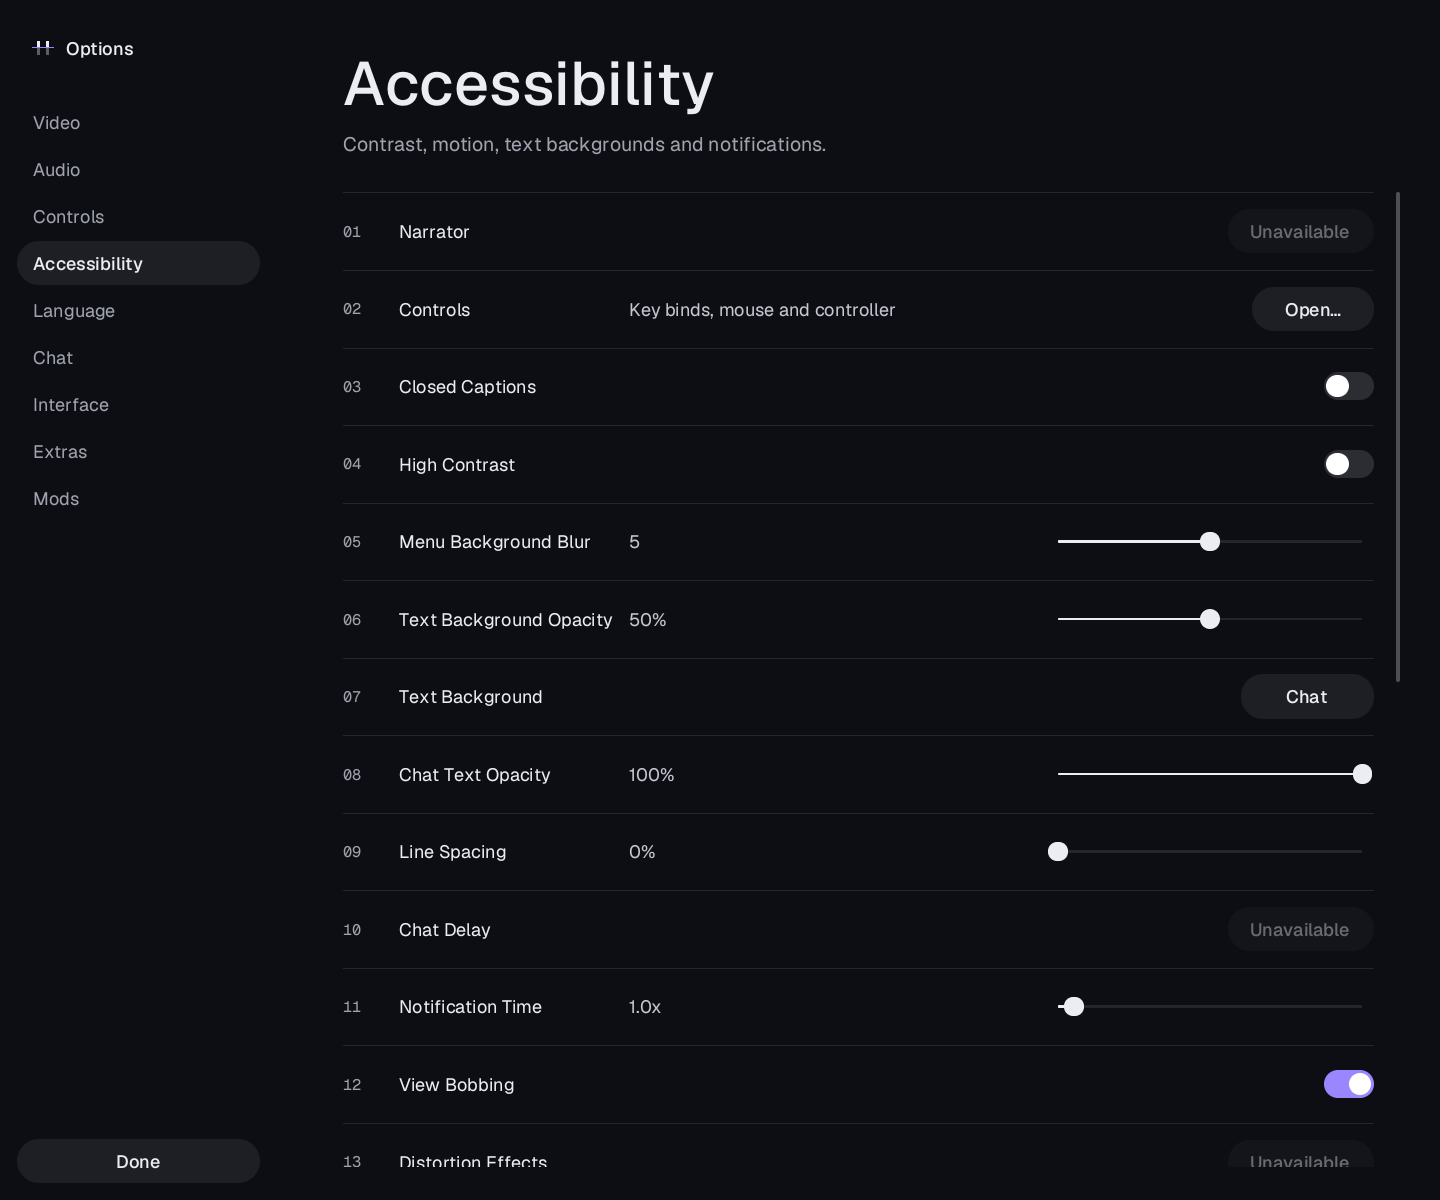
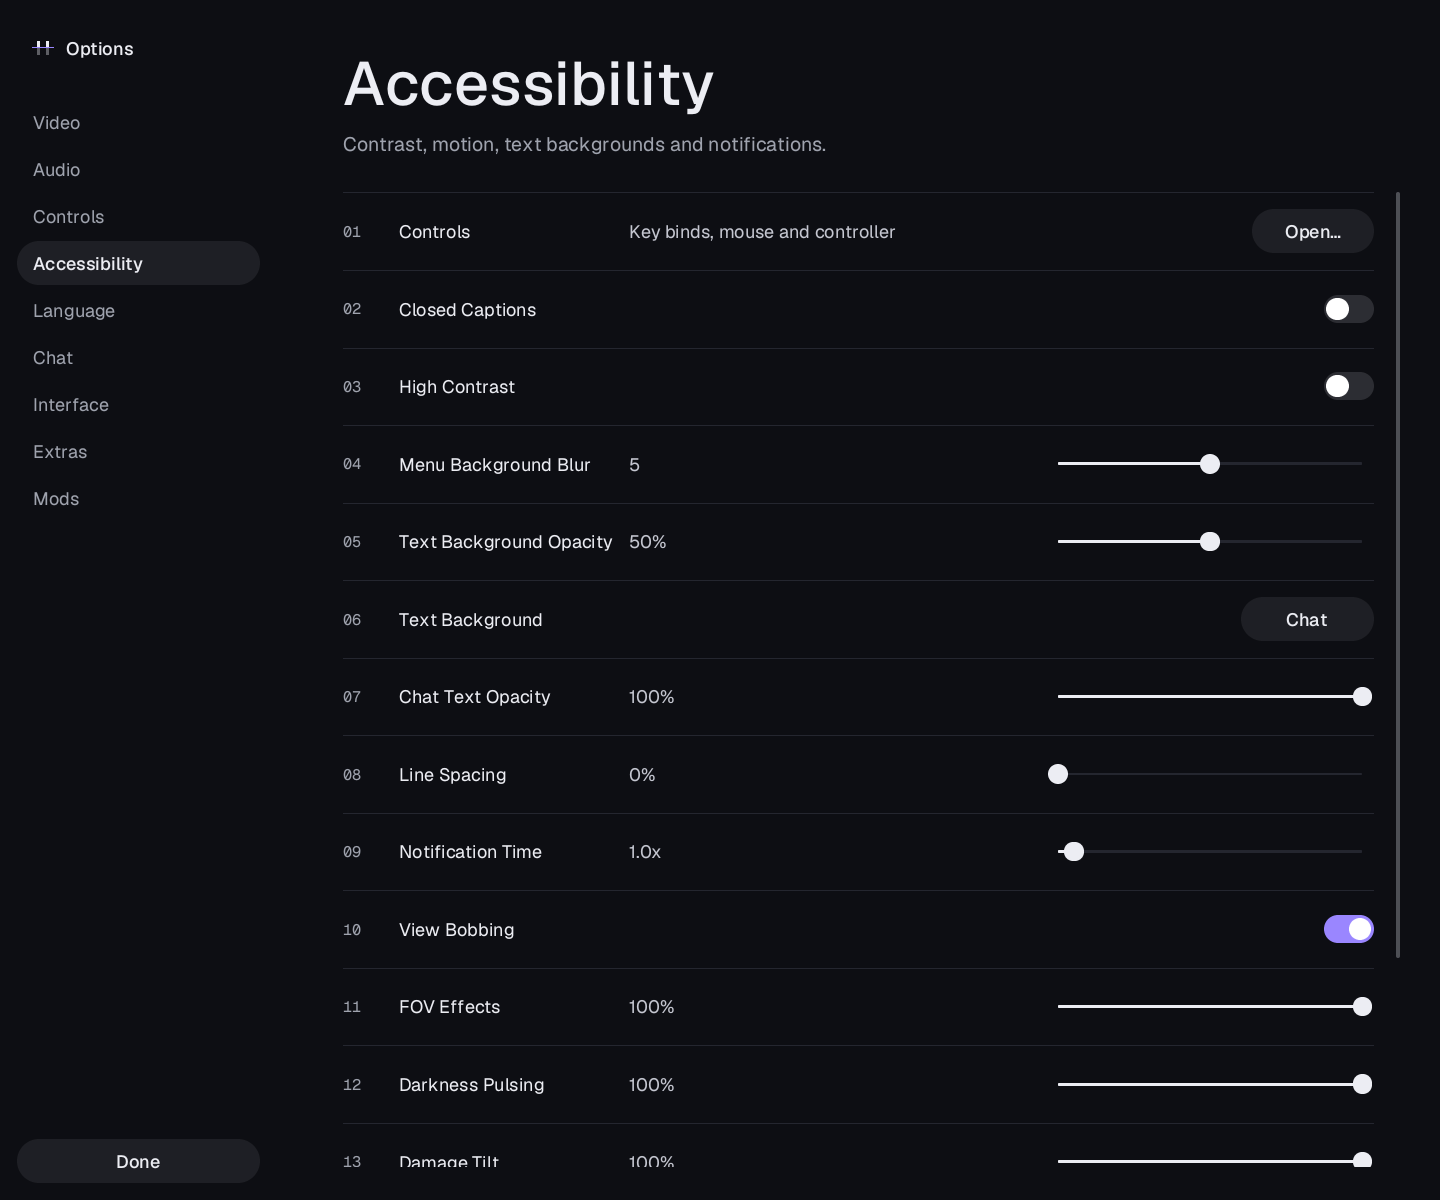
Match vanilla accessibility controls and hide unavailable Horizon options

diff --git a/crates/horizon-client/src/options_horizon.rs b/crates/horizon-client/src/options_horizon.rs
@@ -126,18 +126,16 @@ pub const SECTIONS: &[Section] = &[
         name: "Accessibility",
         blurb: "Contrast, motion, text backgrounds and notifications.",
         rows: |_| {
-            let mut rows = vec![
-                HRow::Opt(Opt::Narrator),
-                HRow::Page(
-                    "Controls",
-                    "Key binds, mouse and controller",
-                    Page::Controls,
-                ),
-            ];
+            let mut rows = vec![HRow::Page(
+                "Controls",
+                "Key binds, mouse and controller",
+                Page::Controls,
+            )];
             rows.extend(
-                options_ui::ACCESSIBILITY_OPTIONS[1..]
+                options_ui::ACCESSIBILITY_OPTIONS
                     .iter()
                     .copied()
+                    .filter(|opt| opt.available())
                     .map(HRow::Opt),
             );
             rows
@@ -875,7 +873,7 @@ mod tests {
     }
 
     #[test]
-    fn accessibility_section_shares_the_complete_option_list() {
+    fn accessibility_section_only_shows_available_options() {
         let s = Settings::default();
         let section = SECTIONS.iter().find(|s| s.name == "Accessibility").unwrap();
         let rows = (section.rows)(&s);
@@ -886,7 +884,13 @@ mod tests {
                 _ => None,
             })
             .collect();
-        assert_eq!(options, options_ui::ACCESSIBILITY_OPTIONS);
+        let expected: Vec<_> = options_ui::ACCESSIBILITY_OPTIONS
+            .iter()
+            .copied()
+            .filter(|opt| opt.available())
+            .collect();
+        assert_eq!(options, expected);
+        assert!(options.iter().all(|opt| opt.available()));
         assert!(
             rows.iter()
                 .any(|r| matches!(r, HRow::Page(_, _, Page::Controls)))

diff --git a/crates/horizon-client/src/options_ui.rs b/crates/horizon-client/src/options_ui.rs
@@ -1385,11 +1385,6 @@ impl OptionsUi {
                     )),
                 )];
                 rows.extend(pairs(&ACCESSIBILITY_OPTIONS[1..]));
-                rows.extend(pairs(&[
-                    Opt::ToggleCrouch,
-                    Opt::ToggleSprint,
-                    Opt::AutoJump,
-                ]));
                 rows
             }
             Page::Font => pairs(&[Opt::ForceUnicode, Opt::JapaneseGlyphs]),
@@ -2691,6 +2686,18 @@ mod tests {
         let mut ui = OptionsUi::default();
         ui.show(Page::Accessibility);
         let (widgets, _, _, _) = ui.layout(&s, 480.0, 1200.0);
+        let options: Vec<_> = widgets
+            .iter()
+            .filter_map(|w| match w.kind {
+                WKind::Button {
+                    act: Act::Cycle(opt),
+                    ..
+                }
+                | WKind::Slider { opt, .. } => Some(opt),
+                _ => None,
+            })
+            .collect();
+        assert_eq!(options, ACCESSIBILITY_OPTIONS);
         for &opt in ACCESSIBILITY_OPTIONS {
             let widget = widgets
                 .iter()
